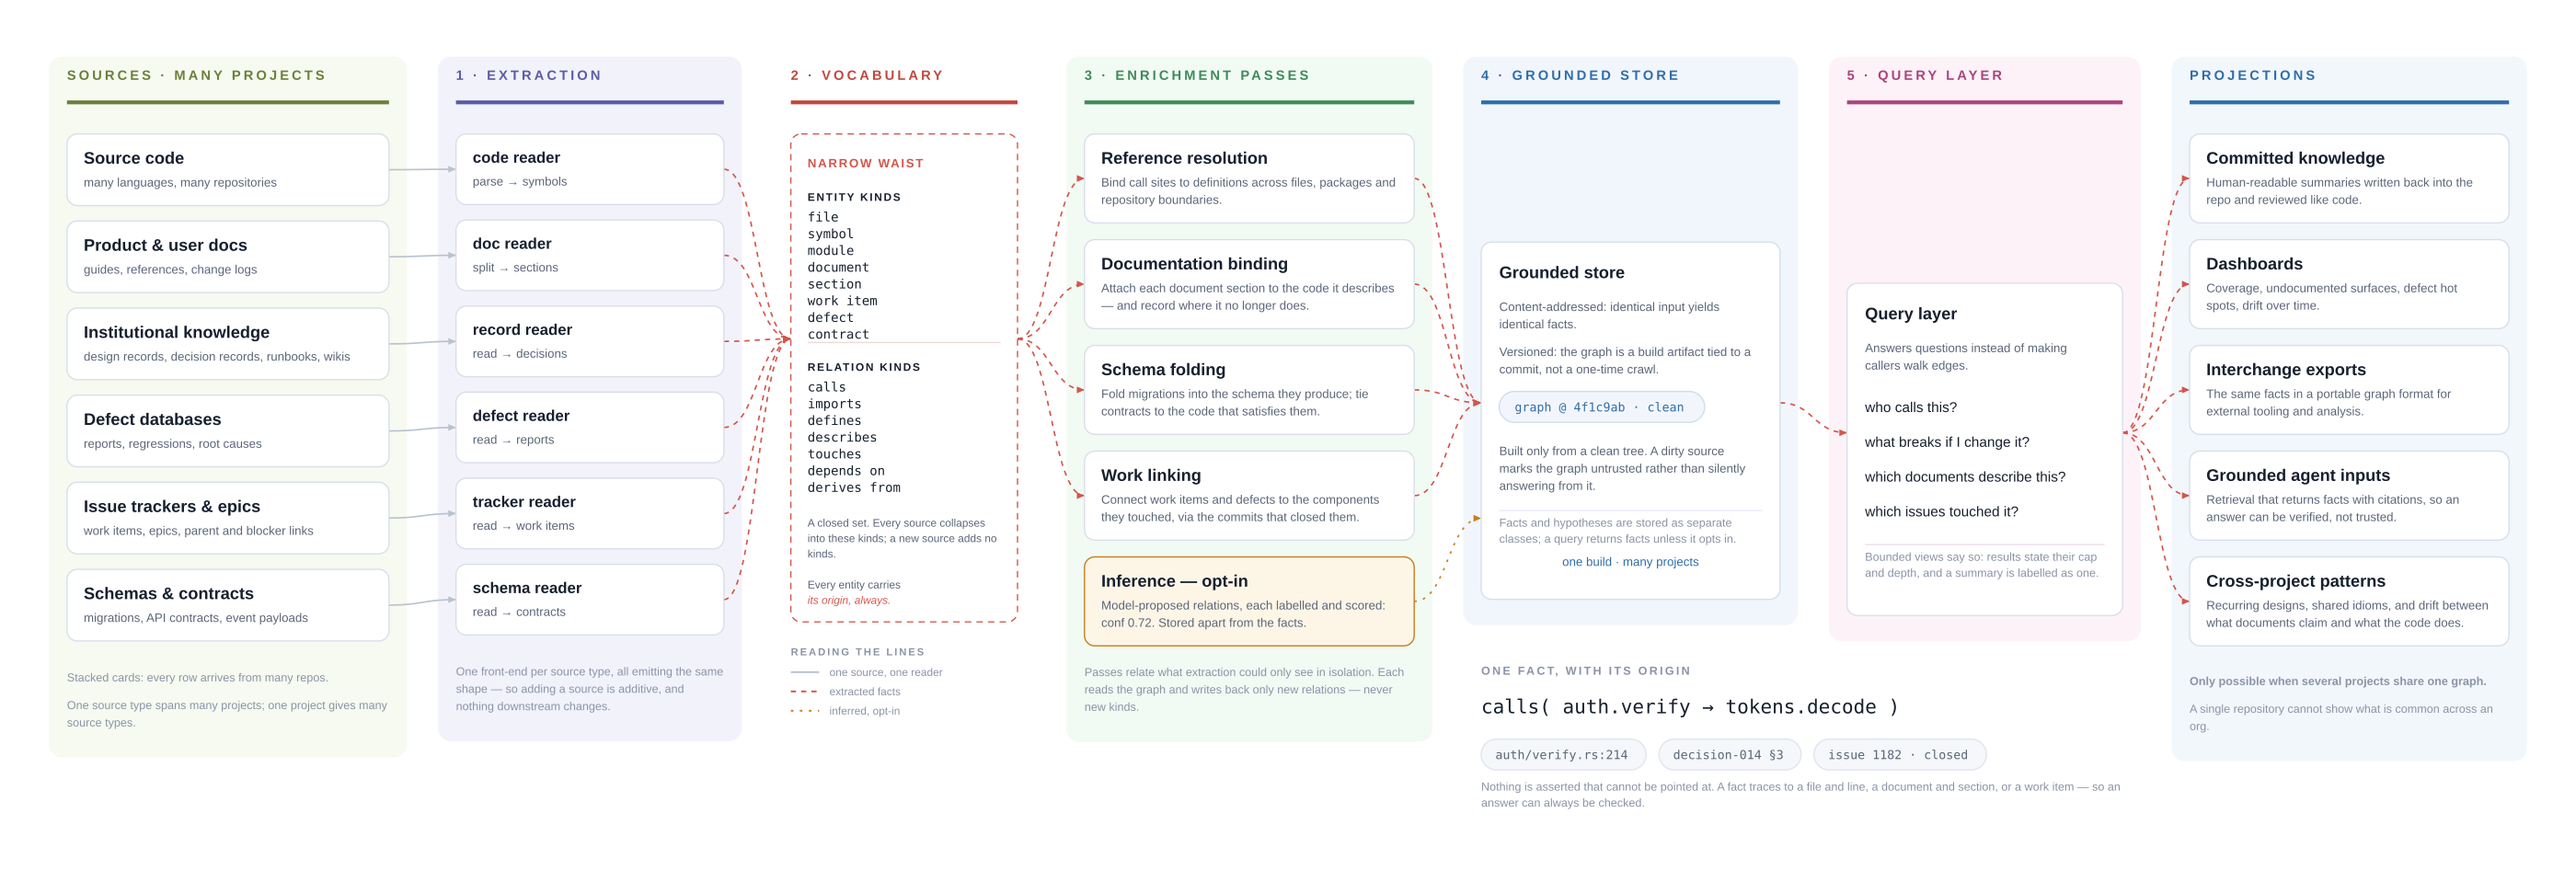
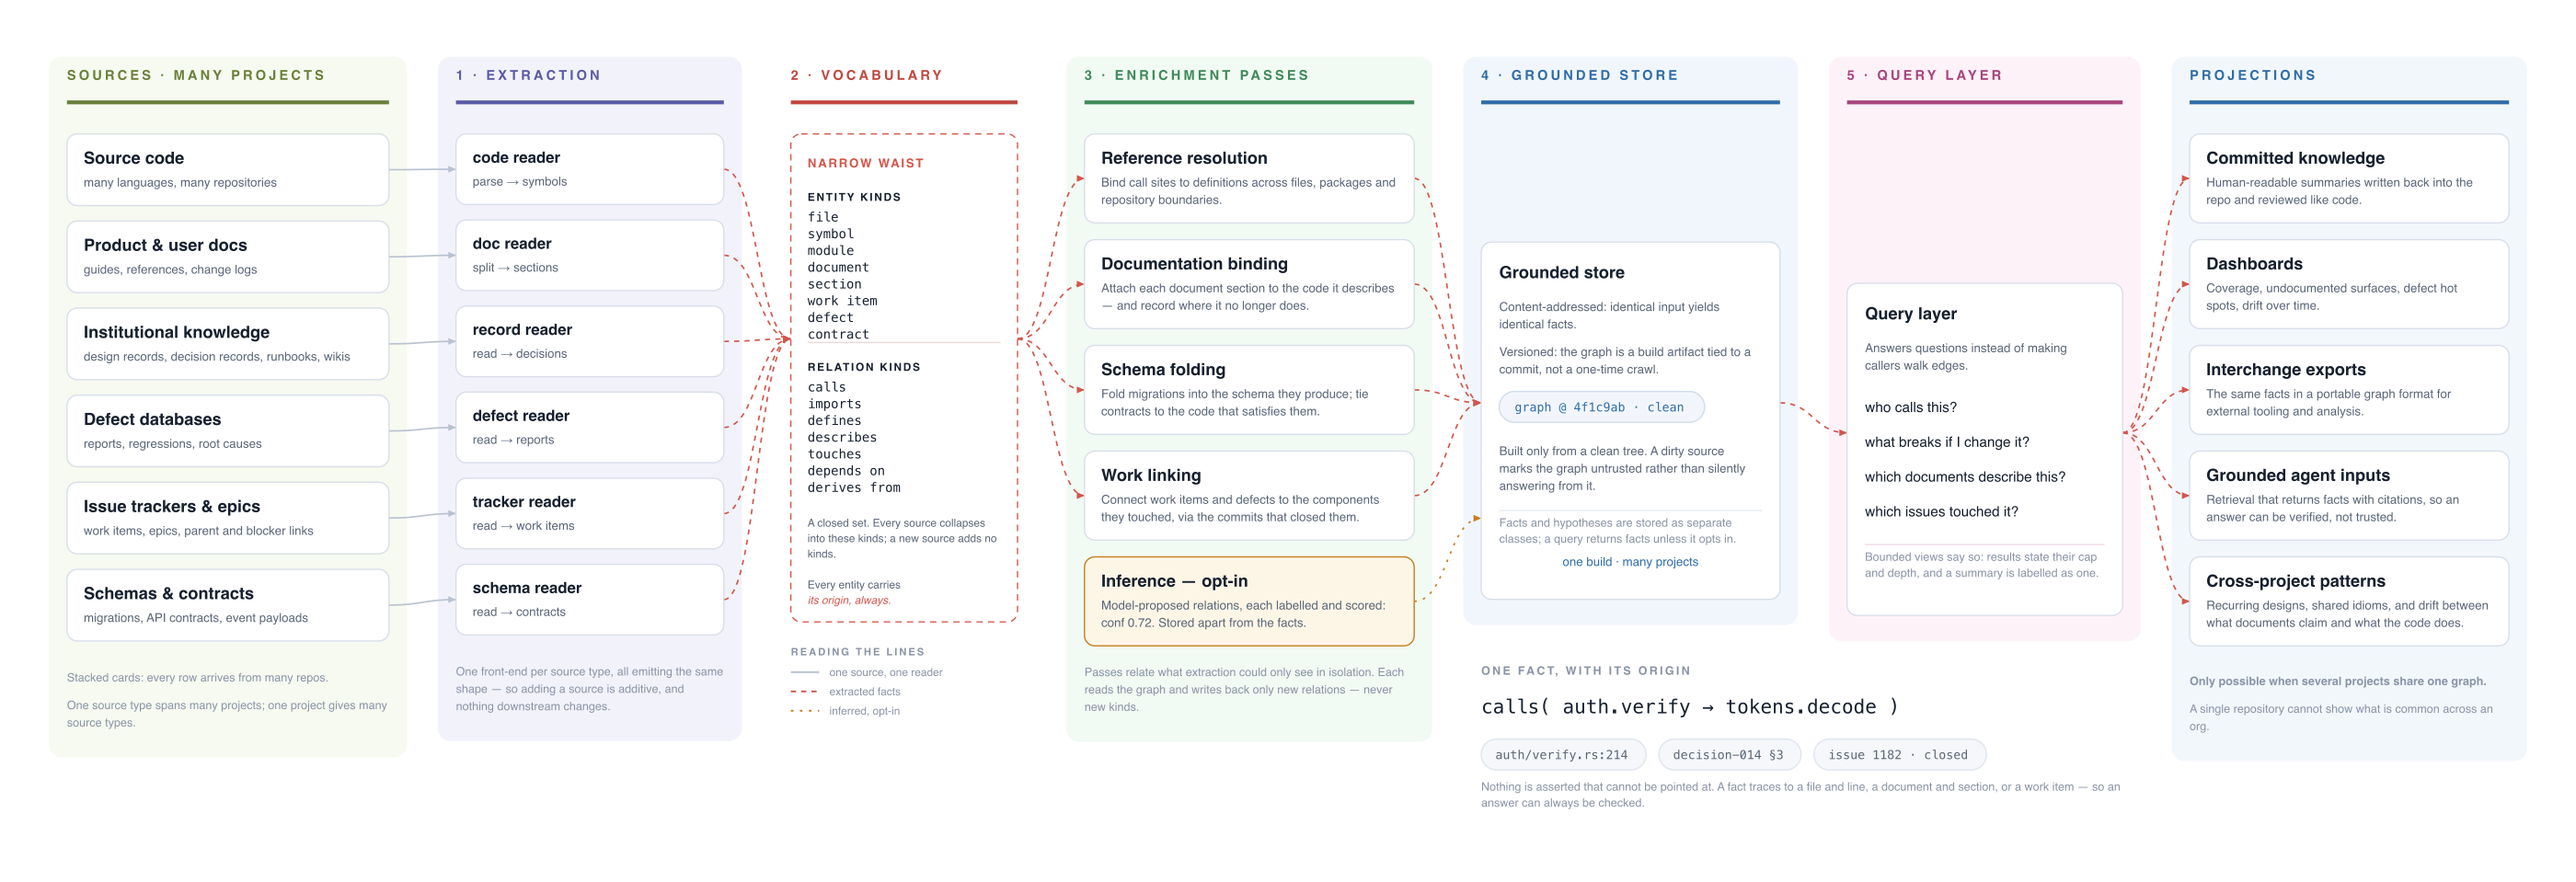
chore(release): cut 3.54.0
Minor: required-behavior gates add a fourth, independently-budgeted check to
sdlc feature's native refine loop, re-verified after every refinement
(SSPN-116) — a project opts in via .spine/required-behavior.yaml and a legacy
project without one takes the exact code path it took before. Core Rust
support (comprehension + Cargo-aware codegen/build/test) is signed off for
supported host environments, closing the installed-parser grammar gate via a
pinned tree-sitter-rust-orchard and the Synaptreesitter lint-baseline gate via
its own upstream PR.

Also fixes two stale release-cut gaps found while cutting this one: the Rust
comprehension changelog entry was misfiled under the already-shipped 3.53.0
section instead of Unreleased, and capability-matrix.md's header plus
gap4-adoption-distribution-roadmap.md's workflow tag were still stamped
3.52.0 from two releases ago.

Stamps pyproject + the lockfile's own entry, the three plugin manifests, the
reusable-workflow tags (including the one in gap4-adoption-distribution-
roadmap.md), CHANGELOG (Unreleased -> 3.54.0), README "What's new",
CLI_REFERENCE, STATE-OF-SPINE (including its stale Rust-gate-open prose),
capability-matrix, SPEC-INDEX's recount line, and the re-rendered
architecture + knowledge-foundation SVG/PNG.

diff --git a/docs/specs/STATE-OF-SPINE.md b/docs/specs/STATE-OF-SPINE.md
@@ -1,8 +1,12 @@
-# State of Spine — 3.53.0
+# State of Spine — 3.54.0
 
-**The one document to read.** Verified against source on **2026-10-04**, at the 3.53.0 release
+**The one document to read.** Verified against source on **2026-10-06**, at the 3.54.0 release
 cut. Every gated number below was re-measured that day (`scripts/state-numbers.py --check`).
-Rust comprehension merged in PR #509 and Rust codegen merged in PR #511 on 2026-10-05. A [published Orchard grammar alternative](../evals/rust-orchard-grammar-validation.md) is under validation for the remaining installed-parser gate. Synaptreesitter's strict lint gate is also red, so Core Rust is not yet a release claim.
+Required-behavior gates ([SSPN-116](https://fibonacci-solutions.atlassian.net/browse/SSPN-116))
+close the ONTM-4 gap where a generated test could pass without exercising a feature's real
+default wiring. Core Rust support — comprehension (PR #509), Cargo-aware codegen/build/test
+(PR #511), and the installed-parser grammar fix (PR #512) — is signed off for supported host
+environments; see the [Core release evidence](../evals/rust-core-signoff.md).
 
 > **Why this exists.** `docs/specs/` holds **92** markdown files — **88 specs** plus this
 > page, [`README`](README.md) and [`SPEC-INDEX`](SPEC-INDEX.md) — with 6 archived, 10 build
@@ -25,8 +29,8 @@ gates (before building, before merging). The product is **Spine**; it ships as
 
 | | Value | How it is known |
 |---|---|---|
-| Version | **3.53.0** | cutting now; 3.52.0 is the last on PyPI. **Minor** — Python's call graph reaches through a typed variable: a parameter annotation, a once-assigned local or a class-annotated `self.attr` now gives a method a caller (+2,077 `CALLS` edges on this repo, B35/SSPN-48); a locked `pyjwt` closes ten advisories (B55/SSPN-115); concurrent `sdlc` features on one worker no longer clobber each other's codegen guards (B49/SSPN-95); corpus relabelling fixes two wrong Python edges (B53/SSPN-113). Plans grounded in a method that gained callers need approving again |
-| Languages extracted | **13** languages (**14** front-ends) | Python, Java, TypeScript, JavaScript, C#, C, C++, Go, Rust, PHP, Perl, Kotlin, SQL, plus a **Gradle** reader that turns `.kts` build scripts into a module dependency graph rather than parsing them as source (D11). Rust comprehension merged in PR #509 with [validation evidence](../evals/rust-comprehension-validation.md); [codegen](../evals/rust-codegen-validation.md) merged in PR #511, and the grammar release gate remains open. Perl has comprehension + `CALLS` + routes + data layer (all six phases of [perl-support-roadmap.md](perl-support-roadmap.md)); Kotlin is at P0–P11 (all phases) of [kotlin-support-roadmap.md](kotlin-support-roadmap.md) (comprehension, `CALLS`, Room entities + DAO data edges, Retrofit calls as cross-repo `CONSUMES` candidates, Compose navigation as `NAV` endpoints, Hilt/Dagger wiring through the new `PROVIDES` edge, a Gradle `.kts` module graph that gives `state` real components instead of package-name prefixes, and Ktor + Spring MVC server routes that make a Kotlin service a **provider** — the Spring half is shared with the Java front-end, which had read JAX-RS only, Multiplatform source sets with `expect`/`actual` ids joined by `IMPLEMENTS`, and **Kotlin/JVM codegen** on Gradle — whose runner also gives *Java* codegen its first Gradle support) |
+| Version | **3.54.0** | cutting now; 3.53.0 is the last on PyPI. **Minor** — required-behavior gates add a fourth, independently-budgeted check to `run_feature`'s native loop, re-verified after every refinement (SSPN-116); Core Rust support (comprehension + Cargo-aware codegen/build/test) is signed off for supported host environments, closing the installed-parser grammar gate via a pinned `tree-sitter-rust-orchard`. A legacy/token-only project without a manifest takes the exact `refine()` path it took before — additive, not a branch |
+| Languages extracted | **13** languages (**14** front-ends) | Python, Java, TypeScript, JavaScript, C#, C, C++, Go, Rust, PHP, Perl, Kotlin, SQL, plus a **Gradle** reader that turns `.kts` build scripts into a module dependency graph rather than parsing them as source (D11). Rust comprehension merged in PR #509 with [validation evidence](../evals/rust-comprehension-validation.md); [codegen](../evals/rust-codegen-validation.md) merged in PR #511; Core Rust support is signed off per the [release evidence](../evals/rust-core-signoff.md) after PR #512 closed the installed-parser grammar gate. Perl has comprehension + `CALLS` + routes + data layer (all six phases of [perl-support-roadmap.md](perl-support-roadmap.md)); Kotlin is at P0–P11 (all phases) of [kotlin-support-roadmap.md](kotlin-support-roadmap.md) (comprehension, `CALLS`, Room entities + DAO data edges, Retrofit calls as cross-repo `CONSUMES` candidates, Compose navigation as `NAV` endpoints, Hilt/Dagger wiring through the new `PROVIDES` edge, a Gradle `.kts` module graph that gives `state` real components instead of package-name prefixes, and Ktor + Spring MVC server routes that make a Kotlin service a **provider** — the Spring half is shared with the Java front-end, which had read JAX-RS only, Multiplatform source sets with `expect`/`actual` ids joined by `IMPLEMENTS`, and **Kotlin/JVM codegen** on Gradle — whose runner also gives *Java* codegen its first Gradle support) |
 | Perl codegen progress | **C-0 through C-5 DONE** | [Roadmap](perl-codegen-roadmap.md): dispatch mutation detection **4/8 → 8/8**, 0 skipped mutations; `--language perl` enabled with real green/red runner proof; greenfield live proof passes 81 assertions from a clean checkout; brownfield clean-checkout proof passes 4,192 tests, with 116 regression gaps unchanged |
 | PHP delivery | Composer or pinned PHPUnit PHAR | Configured test layout, changed-file lint, modern PHPUnit; [validation roadmap](php-codegen-roadmap.md) |
 | CLI commands | **57** | `grep -c '\.command(' src/orchestrator/cli/*.py`, summed |

diff --git a/docs/specs/SPEC-INDEX.md b/docs/specs/SPEC-INDEX.md
@@ -1,7 +1,7 @@
 # Spec index — every design record, and where it stands
 
 **Generated 2026-08-15 against 3.18.1; refreshed 2026-08-21 for the completed GraphIR
-programme; recounted 2026-09-11 at 3.33.2 for perl-support-roadmap.md and perl-codegen-roadmap.md; count re-verified 2026-09-16 at the 3.35.0 cut (that release's plans were kept outside the checkout); recounted again 2026-09-16 for kotlin-support-roadmap.md, the one spec added since; count re-verified 2026-09-17 at the 3.37.0 cut (no spec added); re-verified again 2026-09-18 at the 3.38.0 cut — still 91, since that track's plan was kept outside the checkout; re-verified 2026-09-19 at the 3.39.0 cut, still 91 for the same reason; re-verified 2026-09-20 at the 3.41.0 cut — still 91, that track's plan was kept outside the checkout and only `cli-test-plan.md` was edited; re-verified 2026-09-21 at the 3.41.1 cut — still 91, a fixes-only release that added no spec; re-verified again 2026-09-21 at the 3.42.0 cut — still 91, that round's plans were kept outside the checkout and only `kotlin-support-roadmap.md` gained a §11 subsection; re-verified 2026-09-23 at the 3.43.0 cut — still 91, the JavaScript tracks' plans were kept outside the checkout and no spec was added; re-verified 2026-09-23 at the 3.43.1 cut — still 91, a fixes-only release that added no spec; re-verified 2026-09-24 at the 3.44.0 cut — still 91, the approved-plan track's plan was kept outside the checkout and no spec was added; re-verified 2026-09-24 at the 3.45.0 cut — still 91, the whole-ticket track's plan was kept outside the checkout and no spec was added; re-verified 2026-09-24 at the 3.46.0 cut — still 91, a fixes release whose plans were kept outside the checkout and which added no spec; re-verified 2026-09-24 at the 3.47.0 cut — still 91, its two tracks' plans were kept outside the checkout; re-verified 2026-09-24 at the 3.48.0 cut — still 91, a fixes release whose plans were kept outside the checkout; re-verified 2026-09-25 at the 3.49.0 cut — still 91, its three tracks' plans were kept outside the checkout; re-verified 2026-09-26 at the 3.50.0 cut — still 91, a fixes release whose plan was kept outside the checkout; re-verified 2026-09-26 at the 3.51.0 cut — still 91, its plan was kept outside the checkout; re-verified 2026-09-26 at the 3.51.1 cut — still 91, a fixes-only release that added no spec; re-verified 2026-09-27 at the 3.52.0 cut — still 91, its tracks' plans were kept outside the checkout.**
+programme; recounted 2026-09-11 at 3.33.2 for perl-support-roadmap.md and perl-codegen-roadmap.md; count re-verified 2026-09-16 at the 3.35.0 cut (that release's plans were kept outside the checkout); recounted again 2026-09-16 for kotlin-support-roadmap.md, the one spec added since; count re-verified 2026-09-17 at the 3.37.0 cut (no spec added); re-verified again 2026-09-18 at the 3.38.0 cut — still 91, since that track's plan was kept outside the checkout; re-verified 2026-09-19 at the 3.39.0 cut, still 91 for the same reason; re-verified 2026-09-20 at the 3.41.0 cut — still 91, that track's plan was kept outside the checkout and only `cli-test-plan.md` was edited; re-verified 2026-09-21 at the 3.41.1 cut — still 91, a fixes-only release that added no spec; re-verified again 2026-09-21 at the 3.42.0 cut — still 91, that round's plans were kept outside the checkout and only `kotlin-support-roadmap.md` gained a §11 subsection; re-verified 2026-09-23 at the 3.43.0 cut — still 91, the JavaScript tracks' plans were kept outside the checkout and no spec was added; re-verified 2026-09-23 at the 3.43.1 cut — still 91, a fixes-only release that added no spec; re-verified 2026-09-24 at the 3.44.0 cut — still 91, the approved-plan track's plan was kept outside the checkout and no spec was added; re-verified 2026-09-24 at the 3.45.0 cut — still 91, the whole-ticket track's plan was kept outside the checkout and no spec was added; re-verified 2026-09-24 at the 3.46.0 cut — still 91, a fixes release whose plans were kept outside the checkout and which added no spec; re-verified 2026-09-24 at the 3.47.0 cut — still 91, its two tracks' plans were kept outside the checkout; re-verified 2026-09-24 at the 3.48.0 cut — still 91, a fixes release whose plans were kept outside the checkout; re-verified 2026-09-25 at the 3.49.0 cut — still 91, its three tracks' plans were kept outside the checkout; re-verified 2026-09-26 at the 3.50.0 cut — still 91, a fixes release whose plan was kept outside the checkout; re-verified 2026-09-26 at the 3.51.0 cut — still 91, its plan was kept outside the checkout; re-verified 2026-09-26 at the 3.51.1 cut — still 91, a fixes-only release that added no spec; re-verified 2026-09-27 at the 3.52.0 cut — still 91, its tracks' plans were kept outside the checkout; re-verified 2026-10-06 at the 3.54.0 cut — now **92**, `rust-support-roadmap.md` added since (a language-track design record, tracked in-repo per convention, not a plan); the required-behavior-gates track's plan was kept outside the checkout.**
 `docs/specs/` holds **92** markdown files —
 **84 specs** plus three navigation documents ([README](README.md), this index,
 [STATE-OF-SPINE](STATE-OF-SPINE.md)) — with 6 archived and 10 build documents. The count read

diff --git a/CHANGELOG.md b/CHANGELOG.md
@@ -4,7 +4,11 @@ All notable changes to this project are documented here. Format loosely follows
 [Keep a Changelog](https://keepachangelog.com/); the package is `synaptixs-spine`
 (import/CLI stay `orchestrator`).
 
-## Unreleased
+## 3.54.0 — 2026-10-06
+
+Required-behavior gates close the ONTM-4 gap where a generated test could pass without
+exercising a feature's real default wiring, and Core Rust support (comprehension +
+Cargo-aware codegen/build/test) is signed off end to end.
 
 ### Added
 
@@ -22,21 +26,30 @@ All notable changes to this project are documented here. Format loosely follows
   a first completed autonomous workflow that needed internal repairs.
   ([SSPN-116](https://fibonacci-solutions.atlassian.net/browse/SSPN-116))
 
+- **Rust language support (Core).** A new `[rust]` comprehension and Cargo-aware codegen
+  front-end, closed end-to-end across three follow-on PRs that resolved every gate opened
+  along the way. Comprehension indexes Cargo package/target topology and builds a semantic
+  module tree, giving `.rs` declarations target-scoped IDs and recording exact imports,
+  explicit trait implementations, fields, references, and precision-safe local calls; the
+  Rust corpus holds 1.00 precision on every emitted node/edge kind, with three cross-module/
+  workspace `CALLS` gaps declared rather than silently dropped. Codegen adds
+  `TOOLCHAINS["rust"]`: a Cargo-aware scaffold, build-before-test with changed-package and
+  reverse-dependent selection, workspace escalation for root-manifest/lockfile/toolchain
+  edits, and Rust-specific implement/test/refine prompts — validated with live
+  `claude-opus-5` runs against a pinned real-world crate, including deliberate compile/test-red
+  cases and clean-checkout replays. The installed `[rust]` parser's four-line upstream grammar
+  error, open at both merges, is now closed by pinning the published
+  `tree-sitter-rust-orchard` 0.16.8 grammar, which parses the pinned validation repository's
+  109/109 files cleanly. Core Rust support (comprehension + Cargo-aware codegen/build/test) is
+  signed off for supported host environments; the `[rust]` extra needs a C compiler since
+  Orchard is source-only. Macro-generated declarations, `include!` expansion, receiver type
+  inference, and ambiguous `cfg` variants remain out of scope, as do multi-target/embedded
+  execution and rust-analyzer enrichment.
+
 ## 3.53.0 — 2026-10-04
 
 Python's call graph now reaches through a typed variable, and a locked `pyjwt` closes ten
 published advisories.
-
-### Added
-
-- **Rust comprehension groundwork.** A static Cargo package/target index and semantic module
-  tree give `.rs` declarations target-scoped IDs. The graph records exact imports, explicit
-  trait implementations, fields, references, and precision-safe local calls. The optional
-  `[rust]` parser is included in `[languages]`; comprehension does not execute Cargo. The
-  stock parser census records one four-line upstream grammar error on the pinned validation
-  repository. A one-rule grammar patch now parses it cleanly and passes the Rust corpus; a
-  versioned patched wheel or upstream release is still needed before the Rust release gate
-  closes. Codegen is a separate later phase.
 
 ### Fixed
 

diff --git a/README.md b/README.md
@@ -78,7 +78,17 @@ and [five-repository evaluation](https://github.com/synaptixs/spine/blob/main/do
 
 ## What's new
 
-**3.53.0 (current)** — Python's call graph reaches through a typed variable, and a locked
+**3.54.0 (current)** — required-behavior gates, and Core Rust support signed off. A project
+opts in by committing `.spine/required-behavior.yaml`: checks the model does not author and
+cannot edit away, re-verified after every refinement in `sdlc feature`'s native loop —
+closing the ONTM-4 gap where a generated test passed without exercising a feature's real
+default wiring. `[rust]` comprehension (Cargo topology, precision-safe local calls) and
+Cargo-aware codegen/build/test are both signed off for supported hosts; the installed
+parser's upstream grammar error is closed by pinning `tree-sitter-rust-orchard`. **Upgrade
+notes:** a legacy project without a manifest takes the exact code path it took before —
+opting in is additive, not a breaking change.
+
+**3.53.0** — Python's call graph reaches through a typed variable, and a locked
 `pyjwt` closes ten published advisories. A parameter annotation, a local assigned once from a
 constructor, or a `self.attr` typed by a class annotation now gives a method a caller in the
 graph (`blast_radius`, `impact_of`, `docs_for` and codegen's `refine` all see it): +2,077

diff --git a/docs/specs/capability-matrix.md b/docs/specs/capability-matrix.md
@@ -26,7 +26,7 @@ docs · **n/a** out of category
 
 ---
 
-| Capability | **Spine 3.52.0** | CodeGraph | Graphify | GitNexus | Serena | Joern | Sourcegraph | OpenHands | Devin |
+| Capability | **Spine 3.54.0** | CodeGraph | Graphify | GitNexus | Serena | Joern | Sourcegraph | OpenHands | Devin |
 |---|:--:|:--:|:--:|:--:|:--:|:--:|:--:|:--:|:--:|
 | **LAYER A — CODE INTELLIGENCE** |
 | Deterministic, no-LLM extraction | ✅ | ✅ | ✅ | ✅ | ✅ | ✅ | ✅ | ➖ | ➖ |

diff --git a/docs/specs/gap4-adoption-distribution-roadmap.md b/docs/specs/gap4-adoption-distribution-roadmap.md
@@ -147,7 +147,7 @@ A calling repository adds **three lines**:
 ```yaml
 jobs:
   spine:
-    uses: synaptixs/spine/.github/workflows/spine-comprehension.yml@v3.52.0
+    uses: synaptixs/spine/.github/workflows/spine-comprehension.yml@v3.54.0
 ```
 
 and gets a pull-request comment saying where its own change lands in its own code, with

diff --git a/CLI_REFERENCE.md b/CLI_REFERENCE.md
@@ -44,7 +44,7 @@ Set up your environment and run the platform.
 Prints the installed version **and the path it is running from**:
 
 ```
-Spine 3.53.0  (synaptixs-spine)
+Spine 3.54.0  (synaptixs-spine)
   running from /path/to/site-packages/orchestrator
 ```
 
